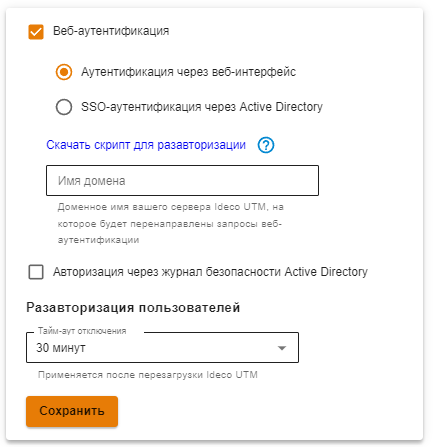
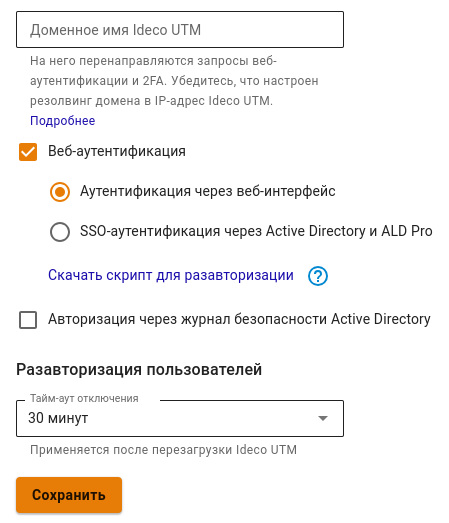
ICS-30921 УТМ. Изменить текст для radio button SSO аутентификации

diff --git a/settings/users/authorization/README.md b/settings/users/authorization/README.md
@@ -12,19 +12,16 @@ description: >-
 {% endhint %}
 
 ## Общая информация
-
-Существует несколько способов авторизации, с которыми можно ознакомиться в текущем подразделе.
-
 Все виды авторизации на Ideco UTM являются IP-based (работают на основе IP адреса хоста) и любая сессия авторизации привязана к IP адресу хоста, с которого она установлена. Под одной пользовательской учетной записью возможна одновременная авторизация до пяти устройств (динамическими способами авторизации, по веб, Kerberos/NTLM, логам безопасности контроллеров домена Active Directory, VPN).
 
 {% hint style="info" %}
-Можно настроить автоматическую авторизацию пользователей при входе в систему. Подробнее можно прочитать в [статье](../../../recipes/popular-recipes/auto-authorization-linux.md).
+Для настройки автоматической авторизации пользователей при входе в систему воспользуйтесь [статьей](../../../recipes/popular-recipes/auto-authorization-linux.md).
 {% endhint %}
 
 Пользователь автоматически разавторизуется при неактивности (отсутствии соединений с сетью Интернет) в течение 15 минут (кроме подключений по VPN). При авторизации шестого устройства, будет разорвана самая старая сессия.
 
 {% hint style="info" %}
-Стоит учитывать, что трафик может генерировать и сама операционная система (пример: телеметрия Windows) без участия пользователя. Из-за этого таймаут для пользователя будет постоянно сбрасываться и не сможет отрабатывать.
+Трафик может генерировать и сама операционная система (пример: телеметрия Windows) без участия пользователя. Из-за этого таймаут для пользователя будет постоянно сбрасываться и не сможет отрабатывать.
 {% endhint %}
 
 Измените время автоматической разавторизации с помощью настройки **Тайм-аут отключения**, перейдя в раздел **Пользователи -> Авторизация**:

diff --git a/settings/users/authorization/web-authorization.md b/settings/users/authorization/web-authorization.md
@@ -37,4 +37,7 @@
 Рекомендуется указывать в качестве DNS-сервера на компьютерах и устройствах локальной сети IP-адрес локального интерфейса Ideco UTM.
 {% endhint %}
 
-Подробнее об авторизации пользователей **Active Directory** ([SSO-аутентификация](../active-directory/active-directory-user-authorization.md#veb-avtorizaciya-sso-ili-ntlm)), можно узнать по [ссылке](../active-directory/active-directory-user-authorization.md).
+Подробнее об авторизации пользователей **Active Directory** в статье [SSO-аутентификация](../active-directory/active-directory-user-authorization.md#veb-avtorizaciya-sso-ili-ntlm).
+
+Подробнее об авторизации пользователей **ALD Pro** в статье [SSO-аутентификация](../ald-pro.md#autentifikaciya-polzovatelei).
+
